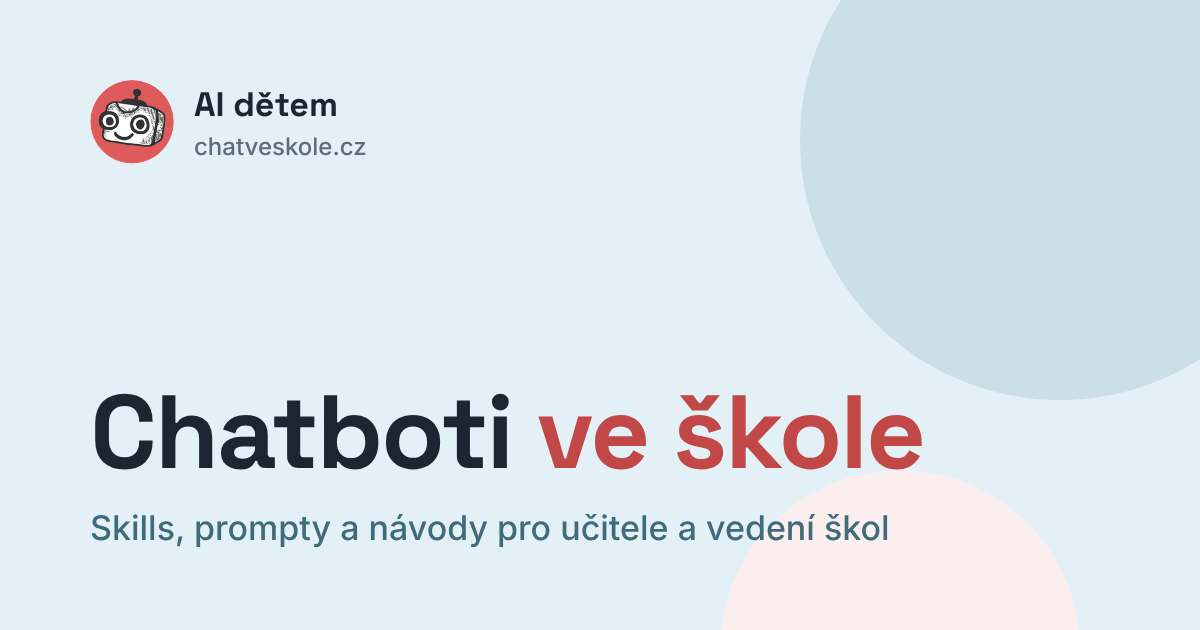
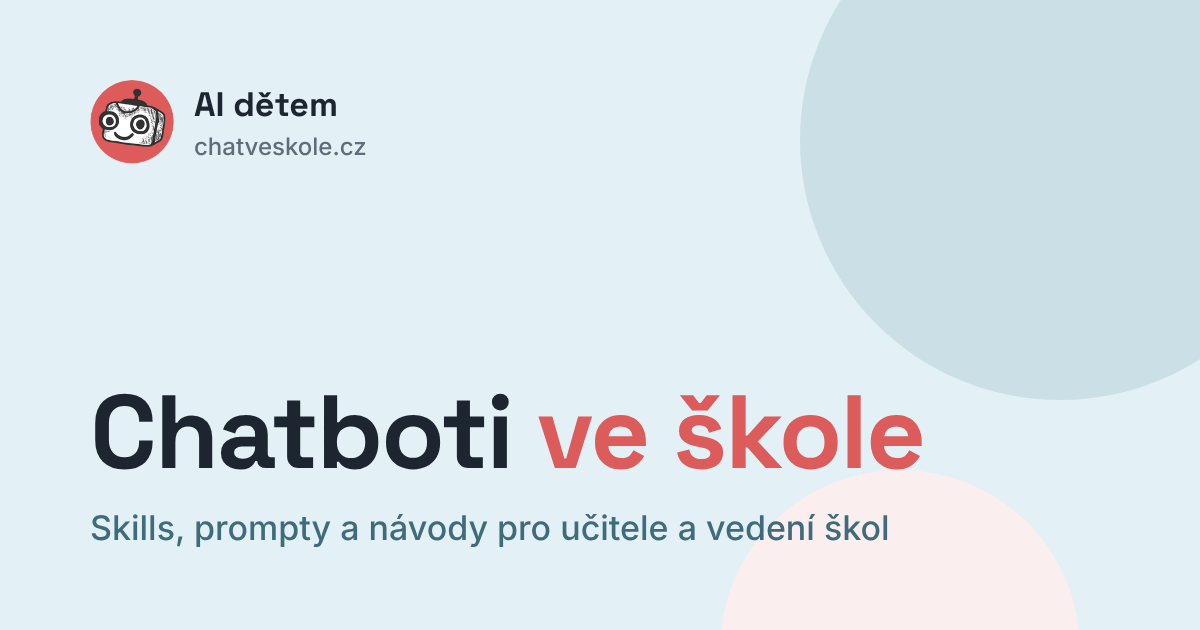
Kolečko: písmo jako v tlačítkách, zarovnání dolů; jedna červená #DC5B5B na celém webu
Claude-Session: https://claude.ai/code/session_01LTxZSGkW7L8AMrsoCbPkLH

Changed region(s): [[0.4317, 0.6333, 0.7708, 0.754]]

diff --git a/src/styles/global.css b/src/styles/global.css
@@ -5,8 +5,8 @@
   --ink: #1c2530;
   --muted: #5f6c79;
   --accent: #dc5b5b;
-  --accent-strong: #c24848;
-  --accent-ink: #b23f3f;
+  --accent-strong: #dc5b5b; /* jedna červená na celém webu (rozhodnutí 8. 11. 2026) */
+  --accent-ink: #dc5b5b;
   --accent-soft: #fbeeee;
   --on-accent: #ffffff;
   --sky: #b3cdd6;

diff --git a/scripts/build-google-drive.py b/scripts/build-google-drive.py
@@ -112,7 +112,7 @@ def make_reference_docx(path):
     from docx.shared import Pt, RGBColor
     doc = Document(str(path))
     by_name = {s.name: s for s in doc.styles}
-    colors = {"Title": "1C2530", "Heading 1": "1C2530", "Heading 2": "C24848",
+    colors = {"Title": "1C2530", "Heading 1": "1C2530", "Heading 2": "DC5B5B",
               "Heading 3": "1C2530", "Heading 4": "5F8C9B", "Heading 5": "1C2530", "Heading 6": "5F6C79"}
     sizes = {"Title": 24, "Heading 1": 20, "Heading 2": 16, "Heading 3": 14,
              "Heading 4": 12, "Heading 5": 11, "Heading 6": 11}

diff --git a/docs/design.md b/docs/design.md
@@ -15,9 +15,9 @@ Definovat jako CSS proměnné na `:root` (`src/styles/global.css`). **Web je jen
 | `--ink` | `#1c2530` | text |
 | `--muted` | `#5f6c79` | vedlejší text, popisky |
 | `--accent` | `#dc5b5b` | **Jahodová zmrzka** — hlavní akcent, tlačítka, „končí“ |
-| `--accent-strong` | `#c24848` | odkazy a akcentový text na světlém podkladu |
+| `--accent-strong` | `#dc5b5b` | tlačítka, odkazy a akcentový text (od 8. 11. 2026 stejná jako `--accent`) |
 | `--accent-soft` | `#fbeeee` | podbarvení varování a změn k horšímu |
-| `--accent-ink` | `#b23f3f` | text na `--accent-soft` |
+| `--accent-ink` | `#dc5b5b` | text na `--accent-soft` (od 8. 11. 2026 stejná jako `--accent`) |
 | `--on-accent` | `#ffffff` | text na akcentu |
 | `--sky` | `#b3cdd6` | **Nekonečné nebe** — linky, rámečky |
 | `--sky-deep` | `#5f8c9b` | ikony, dekorace (na text jen velký, kontrast 3,6 : 1) |
@@ -26,7 +26,7 @@ Definovat jako CSS proměnné na `:root` (`src/styles/global.css`). **Web je jen
 | `--line` | `#e8edf0` | oddělovače |
 | `--line-soft` | `#f1f4f6` | jemné oddělovače uvnitř tabulek |
 
-Kontrast textu musí splnit WCAG AA (4,5 : 1). `--accent` (#dc5b5b) na bílé nesplňuje pro běžný text — na text používej `--accent-strong`. **Plná tlačítka mají pozadí `--accent-strong`** (bílý text na `--accent` má jen 3,9 : 1).
+**Červená je na celém webu jen jedna: #DC5B5B** (barva AI dětem, Evino rozhodnutí 8. 11. 2026). Tokeny `--accent-strong` a `--accent-ink` zůstávají kvůli kódu, ale mají stejnou hodnotu. Pozor: červený text na bílé i bílý text na červené má kontrast 3,9 : 1, WCAG AA chce pro běžný text 4,5 : 1 (velký text 3 : 1 splňuje). Když bude potřeba AA splnit, stačí tmavší odstín jen pro drobný text (odkazy, štítky), např. #C24848.
 
 ## Písmo
 
@@ -68,7 +68,7 @@ Kontrast textu musí splnit WCAG AA (4,5 : 1). `--accent` (#dc5b5b) na bílé ne
 - **Detail skillu:** hlavní akce *Stáhnout skill*, vedlejší *Použít jako prompt*; pod hlavičkou pruh s údaji (sada, pro koho, metodika, autoři, Google Docs, Disk); pořadí sekcí: Co skill umí → Nainstalovat jako skill (záložky podle chatbota) → Použít jako prompt (záložky variant) → Původní asistent.
 - **Blok promptu:** šedý panel (`--line-soft`), písmo JetBrains Mono, tlačítko *Kopírovat* vpravo nahoře, po kliknutí „Zkopírováno“.
 - **Obsahová stránka:** vlevo menu sekce (na mobilu nad obsahem), vpravo text max. 70 znaků na řádek; tabulky v posuvném boxu; info na `--sky-light`, varování na `--accent-soft`.
-- **Hlavní stránka (pořadí pruhů, úprava 8. 11. 2026):** Hero na `--accent` (#DC5B5B, barva AI dětem — Evino rozhodnutí; bílý běžný text na ní má kontrast jen 3,9 : 1) s odsazením 150 px nahoře i dole, bílý text, vpravo lehce pootočené kolečko 154 px (`--sky-light`, červený text, tři řádky „Změny ve / funkcích chatbotů / v roce 2026“, bez šipky) s odkazem na `/funkce/zmeny-2026` → Skills (bílá) → Katalog promptů (modrá) → Chatboti ve výuce s bannerem Tiny, metodikami, doporučeními a boxem Tvorba školních pravidel (bílá) → Pluginy a Vibe coding (modrá) → Metodické materiály (bílá) → Kniha a Novinky v poměru 2 : 1 (modrá).
+- **Hlavní stránka (pořadí pruhů, úprava 8. 11. 2026):** Hero na `--accent` (#DC5B5B, barva AI dětem — Evino rozhodnutí; bílý běžný text na ní má kontrast jen 3,9 : 1) s odsazením 150 px nahoře i dole, bílý text, vpravo lehce pootočené kolečko 172 px (`--sky-light`, červený text 15 px jako v tlačítkách, tři řádky „Změny ve / funkcích chatbotů / v roce 2026“, bez šipky) zarovnané dole s tlačítky, s odkazem na `/funkce/zmeny-2026` → Skills (bílá) → Katalog promptů (modrá) → Chatboti ve výuce s bannerem Tiny, metodikami, doporučeními a boxem Tvorba školních pravidel (bílá) → Pluginy a Vibe coding (modrá) → Metodické materiály (bílá) → Kniha a Novinky v poměru 2 : 1 (modrá).
 
 ## Logo a obrázky
 
